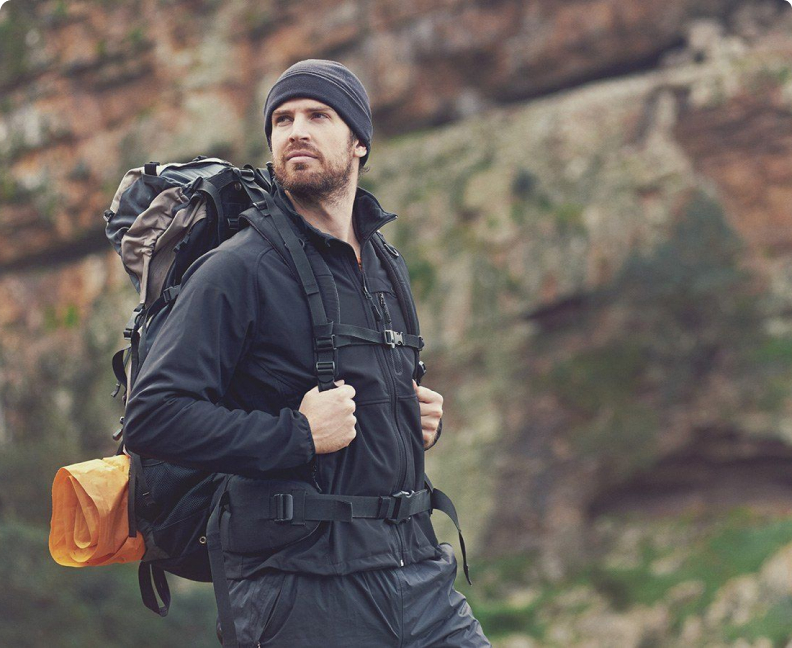
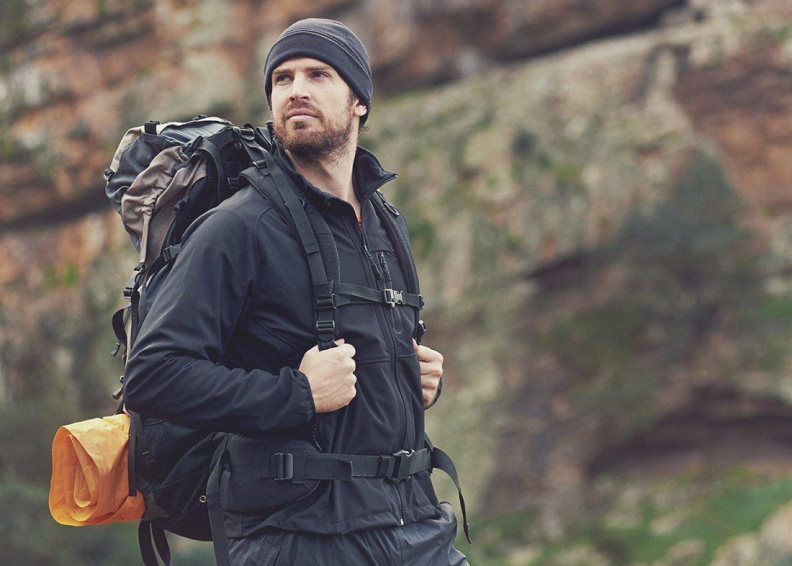
[main] Updated aside images

diff --git a/css/style.css b/css/style.css
@@ -828,8 +828,6 @@ form {
 
 .smallnews img {
   width: 100%;
-  max-width: 264px;
-  max-height: 216px;
   border-radius: 10px 3px 0px 0px;
   margin-bottom: 20px;
 }
@@ -865,7 +863,7 @@ form {
 }
 
 .media {
-  max-height: 420px;
+  max-height: 500px;
   overflow: hidden;
   overflow-wrap: break-word;
 }
@@ -1248,6 +1246,24 @@ footer {
   overflow: hidden;
 }
 
+@media screen and (min-width: 1920px) {
+  .bignews {
+    width: 100%;
+    min-height: 550px;
+  }
+
+  .smallnews {
+    height: 550px;
+  }
+
+  .smallnews img {
+    width: 85%;
+    margin: 0 auto;
+    display: block;
+    border-radius: 0px;
+    margin-bottom: 10px;
+  }
+}
 @media screen and (max-width: 1280px) {
   .header_rueng {
     justify-content: space-evenly;

diff --git a/scss/desktop.scss b/scss/desktop.scss
@@ -806,8 +806,6 @@ form {
 
 .smallnews img {
   width: 100%;
-  max-width: 264px;
-  max-height: 216px;
   border-radius: 10px 3px 0px 0px;
   margin-bottom: 20px;
 }
@@ -843,7 +841,7 @@ form {
 }
 
 .media {
-  max-height: 420px;
+  max-height: 500px;
   overflow: hidden;
   overflow-wrap: break-word;
 }
@@ -1221,4 +1219,22 @@ footer {
   padding: 5px;
   border-radius: 50px;
   overflow: hidden;
+}
+
+@media screen and (min-width: 1920px) {
+  .bignews {
+    width: 100%;
+    min-height: 550px;
+  }
+
+  .smallnews {
+    height: 550px;
+  }
+  .smallnews img {
+    width: 85%;
+    margin: 0 auto;
+    display: block;
+    border-radius: 0px;
+    margin-bottom: 10px;
+  }
 }

diff --git a/index.html b/index.html
@@ -142,7 +142,7 @@
         <div class="twosmallnews">
         <a href="#"><div class="smallnews">
         <div class="media">
-          <img src="images/Ourblog/Rectangle.jpg" alt="Блог">
+          <img src="images/Ourblog/Rectangle.jpeg" alt="Блог">
           <h5>Как стать успешным тревел-блогером</h5>
           <p>Блоги о путешествиях - это актуальное пространство, и каждый день оно становится более переполненным.</p>
         </div>  

diff --git a/README.md b/README.md
@@ -5,7 +5,7 @@ This application includes a little bit JS but has a lot of HTML + SCSS/SASS\
 this is my vision of what it might look like WEB Landing for business, small companies etc.\
 Its work too easy - open `index.html` file in your browser and scroll down))\
 By the way For work with SASS you might use `npm run sass`
-Also you can see this application here => [Link to GitHub Pages](https://nikitakhadnevich.github.io/ArtLanding).
+Also you can see this application here => [Link to GitHub Pages](https://nikitakhadnevich.github.io/TouristTour/).
 
 # Stack
 
